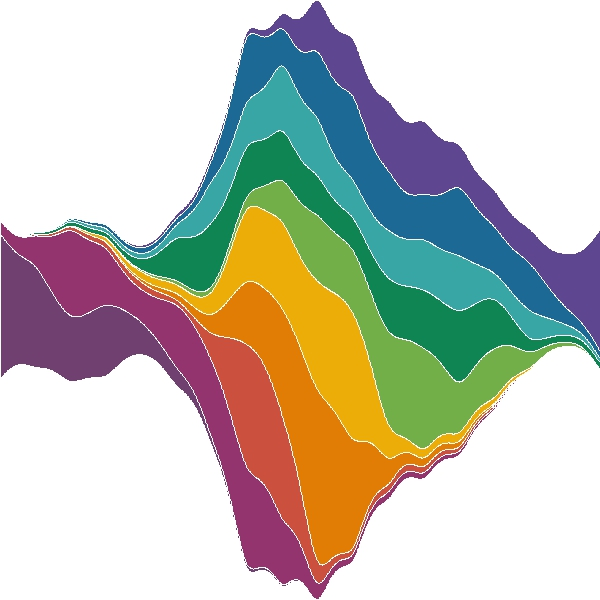
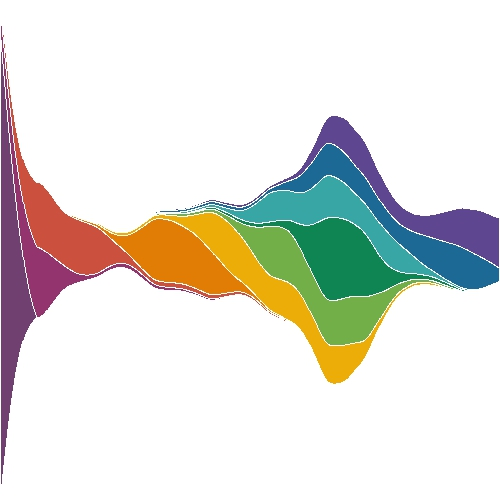
update streams params

diff --git a/README.md b/README.md
@@ -388,10 +388,10 @@ streams(bg_col = "black",
         type = "up",
         s = 450)
 streams(bg_col = "white",
-        line_col = "white",
-        fill_col = "purple",
+        line_col = NA,
+        fill_col = rep("purple", 8),
         type = "left",
-        s = 24)
+        s = 13)
 ```
 <p align="center">
 <img src="https://github.com/nrennie/aRt/blob/main/man/figures/streams1.jpeg?raw=true" width="30%">

diff --git a/NEWS.md b/NEWS.md
@@ -1,6 +1,7 @@
 ## aRt 1.1.10
 
 * add `streams()` function
+* Move {MetBrewer} to Suggests
 
 ## aRt 1.1.9
 
